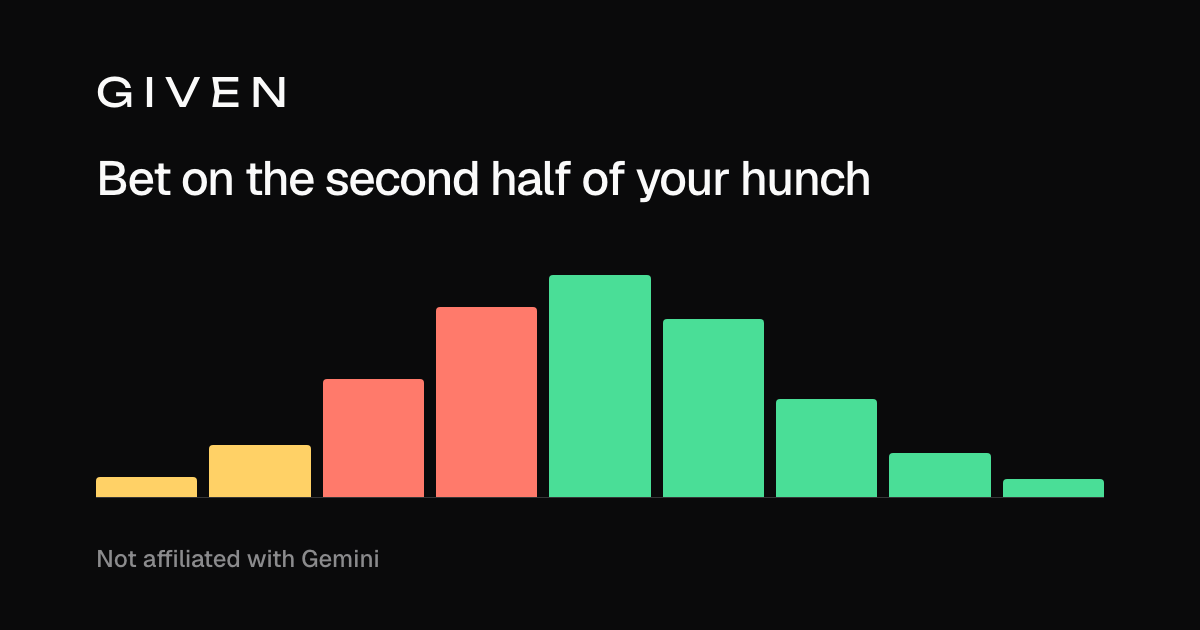
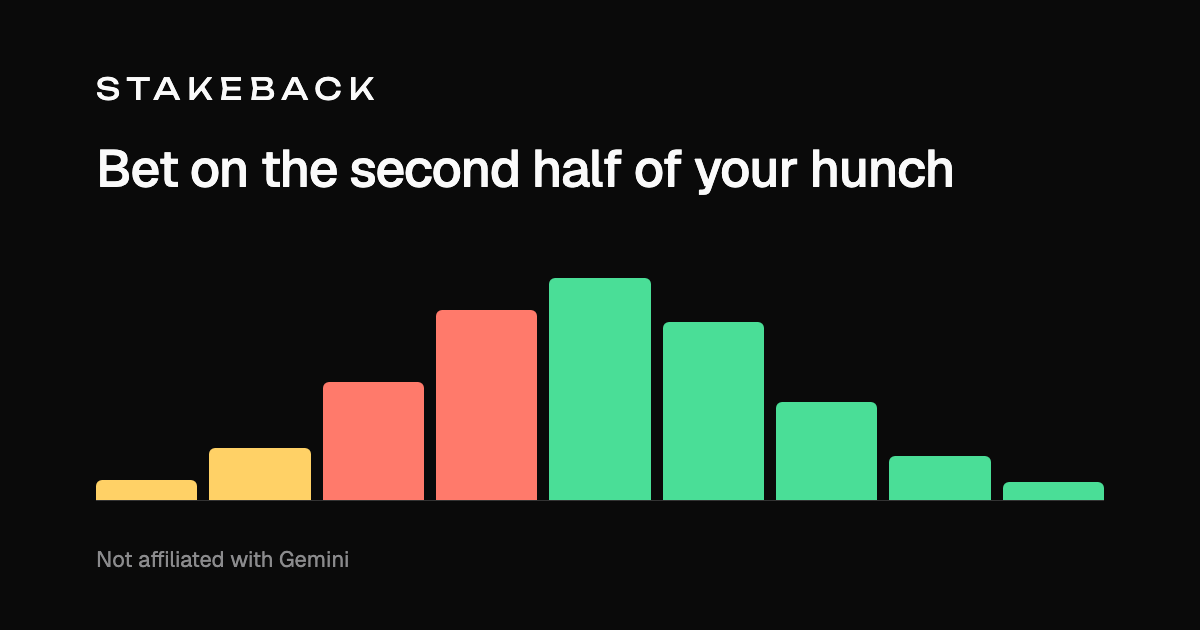
Rename the product to Stakeback
The wordmark, tab titles, descriptions, manifest, share image, share card, notices, README and submission text now say Stakeback.
The bet sentences ("Given $62,500 or above...") are ordinary English and stay. The repository, the GIVEN_* settings, the given_receipts
program and the package names are internal and unchanged; the README and decision 14 say so.

diff --git a/web/src/lib/titles.test.ts b/web/src/lib/titles.test.ts
@@ -3,23 +3,23 @@ import { titleFor } from './titles';
 
 describe('page titles', () => {
   it('names each page, then the site', () => {
-    expect(titleFor('/parlay')).toBe('Stake Back · Given');
-    expect(titleFor('/range')).toBe('Range and Breakout · Given');
-    expect(titleFor('/hunch')).toBe('Hunch · Given');
-    expect(titleFor('/bets/')).toBe('My bets · Given');
-    expect(titleFor('/verify/5fE6B5sFabc')).toBe('Proof of a call · Given');
+    expect(titleFor('/parlay')).toBe('Stake Back · Stakeback');
+    expect(titleFor('/range')).toBe('Range and Breakout · Stakeback');
+    expect(titleFor('/hunch')).toBe('Hunch · Stakeback');
+    expect(titleFor('/bets/')).toBe('My bets · Stakeback');
+    expect(titleFor('/verify/5fE6B5sFabc')).toBe('Proof of a call · Stakeback');
   });
 
   it('keeps the site line for the landing page, and says so for an address it does not know', () => {
-    expect(titleFor('/')).toBe("Given – money back if it doesn't happen");
-    expect(titleFor('')).toBe("Given – money back if it doesn't happen");
-    expect(titleFor('/nowhere')).toBe('Page not found · Given');
-    expect(titleFor('/parlayx')).toBe('Page not found · Given');
+    expect(titleFor('/')).toBe("Stakeback – money back if it doesn't happen");
+    expect(titleFor('')).toBe("Stakeback – money back if it doesn't happen");
+    expect(titleFor('/nowhere')).toBe('Page not found · Stakeback');
+    expect(titleFor('/parlayx')).toBe('Page not found · Stakeback');
   });
 
   it('the landing title is the one in index.html, so the tab does not change when the app starts', () => {
     // The page is served with this title and the app sets the same one on arrival: no flicker, and no second name for the site.
-    expect(titleFor('/')).toBe("Given – money back if it doesn't happen");
+    expect(titleFor('/')).toBe("Stakeback – money back if it doesn't happen");
   });
 
   it('every other page uses the same separator, a middle dot', () => {
@@ -29,22 +29,22 @@ describe('page titles', () => {
   });
 
   it('the Range page is named for both bets it holds, whichever side its switch is on', () => {
-    expect(titleFor('/range')).toBe('Range and Breakout · Given');
-    expect(titleFor('/Range/')).toBe('Range and Breakout · Given');
+    expect(titleFor('/range')).toBe('Range and Breakout · Stakeback');
+    expect(titleFor('/Range/')).toBe('Range and Breakout · Stakeback');
   });
 
   it('reads an old address as the page it is sent on to', () => {
-    expect(titleFor('/app')).toBe('Stake Back · Given');
-    expect(titleFor('/app/bets')).toBe('My bets · Given');
+    expect(titleFor('/app')).toBe('Stake Back · Stakeback');
+    expect(titleFor('/app/bets')).toBe('My bets · Stakeback');
   });
 
   it('follows the router, which ignores case and knows no page below these', () => {
-    expect(titleFor('/Markets')).toBe('Markets · Given');
-    expect(titleFor('/BETS/')).toBe('My bets · Given');
-    expect(titleFor('/VERIFY/AbC')).toBe('Proof of a call · Given');
-    expect(titleFor('/verify')).toBe('Page not found · Given');
-    expect(titleFor('/verify/')).toBe('Page not found · Given');
-    expect(titleFor('/verify/abc/extra')).toBe('Page not found · Given');
-    expect(titleFor('/parlay/extra')).toBe('Page not found · Given');
+    expect(titleFor('/Markets')).toBe('Markets · Stakeback');
+    expect(titleFor('/BETS/')).toBe('My bets · Stakeback');
+    expect(titleFor('/VERIFY/AbC')).toBe('Proof of a call · Stakeback');
+    expect(titleFor('/verify')).toBe('Page not found · Stakeback');
+    expect(titleFor('/verify/')).toBe('Page not found · Stakeback');
+    expect(titleFor('/verify/abc/extra')).toBe('Page not found · Stakeback');
+    expect(titleFor('/parlay/extra')).toBe('Page not found · Stakeback');
   });
 });

diff --git a/web/index.html b/web/index.html
@@ -4,20 +4,20 @@
     <meta charset="UTF-8" />
     <meta name="viewport" content="width=device-width, initial-scale=1.0" />
     <meta name="color-scheme" content="light dark" />
-    <title>Given – money back if it doesn't happen</title>
+    <title>Stakeback – money back if it doesn't happen</title>
     <meta name="description" content="Bet on the second half of your hunch. If the first half doesn't happen, you get your stake back." />
     <meta name="theme-color" content="#fafbfb" media="(prefers-color-scheme: light)" />
     <meta name="theme-color" content="#0a0a0b" media="(prefers-color-scheme: dark)" />
     <meta property="og:type" content="website" />
-    <meta property="og:site_name" content="Given" />
-    <meta property="og:title" content="Given – money back if it doesn't happen" />
+    <meta property="og:site_name" content="Stakeback" />
+    <meta property="og:title" content="Stakeback – money back if it doesn't happen" />
     <meta property="og:description" content="Bet on the second half of your hunch. If the first half doesn't happen, you get your stake back. Every result is shown before you bet. Not affiliated with Gemini." />
     <!-- A link preview needs a full address for its picture. The hosted server (scripts/serve.mjs) puts its public address in
          front of this path when it serves the page; opened any other way the path is left as it is. -->
     <meta property="og:image" content="/og.png" />
     <meta property="og:image:width" content="1200" />
     <meta property="og:image:height" content="630" />
-    <meta property="og:image:alt" content="Given: bars showing where a price may finish, colored by what the bet does there: stake back, lose or win" />
+    <meta property="og:image:alt" content="Stakeback: bars showing where a price may finish, colored by what the bet does there: stake back, lose or win" />
     <meta name="twitter:card" content="summary_large_image" />
     <link rel="icon" href="/favicon.svg" type="image/svg+xml" />
     <link rel="apple-touch-icon" href="/apple-touch-icon.png" />

diff --git a/web/src/lib/shareCard.ts b/web/src/lib/shareCard.ts
@@ -100,14 +100,14 @@ export function shareCardSvg(c: ShareCard): string {
   const linkLines = splitLink(c.link);
   // Only what the proof page checks: the call was sealed before it was revealed. The result is the exchange's, not Solana's.
   // A call that is not on Solana has no record to check, so the picture claims no seal and does not tell anyone to check.
-  const checkLine = c.onSolana ? 'Sealed on Solana before it was revealed. Check it yourself:' : 'Recorded by Given, not on Solana:';
+  const checkLine = c.onSolana ? 'Sealed on Solana before it was revealed. Check it yourself:' : 'Recorded by Stakeback, not on Solana:';
 
   return [
     `<svg xmlns="http://www.w3.org/2000/svg" width="${CARD_WIDTH}" height="${CARD_HEIGHT}" viewBox="0 0 ${CARD_WIDTH} ${CARD_HEIGHT}">`,
     `<rect width="${CARD_WIDTH}" height="${CARD_HEIGHT}" fill="${k.page}"/>`,
     `<rect x="40.5" y="40.5" width="1119" height="549" rx="12" fill="${k.card}" stroke="${k.line}"/>`,
     // The name, set as the header sets it: wide, spaced, capitals.
-    `<text x="88" y="106" font-family="${SANS}" font-size="22" font-weight="500" letter-spacing="5.3" fill="${k.ink}">GIVEN</text>`,
+    `<text x="88" y="106" font-family="${SANS}" font-size="22" font-weight="500" letter-spacing="5.3" fill="${k.ink}">STAKEBACK</text>`,
     `<text x="1112" y="106" text-anchor="end" font-family="${SANS}" font-size="20" fill="${k.muted}">${c.onSolana ? 'Recorded on Solana · ' : ''}${esc(c.when)}</text>`,
     // who and what happened
     `<text x="88" y="170" font-family="${SANS}" font-size="20" font-weight="500" letter-spacing="1.6" fill="${k.muted}">${esc(c.handle.toUpperCase())}</text>`,

diff --git a/web/src/lib/shareCard.test.ts b/web/src/lib/shareCard.test.ts
@@ -29,9 +29,9 @@ function wellFormed(svg: string): boolean {
 }
 
 describe('the picture of a call that is not on Solana', () => {
-  it('claims no seal and offers nothing to check: it says only that Given recorded it', () => {
+  it('claims no seal and offers nothing to check: it says only that Stakeback recorded it', () => {
     const svg = shareCardSvg(card({ onSolana: false }));
-    expect(svg).toContain('Recorded by Given, not on Solana:');
+    expect(svg).toContain('Recorded by Stakeback, not on Solana:');
     for (const claim of ['Sealed', 'Check it yourself', 'Recorded on Solana']) expect(svg).not.toContain(claim);
     expect(svg).toContain('given.example.com/verify/5P8xNpVvQmRt');
   });
@@ -61,7 +61,7 @@ describe('the picture of a call', () => {
     expect(svg).not.toMatch(/Georgia|serif'|monospace.*Result/);
     expect(svg).not.toMatch(/#f5f1e8|#fffdf7/i);
     expect(svg).toContain('letter-spacing="5.3"');
-    expect(svg).toContain('>GIVEN<');
+    expect(svg).toContain('>STAKEBACK<');
     expect(svg).not.toMatch(/devnet|Test chain|test/i);
   });
 
@@ -74,7 +74,7 @@ describe('the picture of a call', () => {
     expect(off).not.toContain('Recorded on Solana');
     expect(off).not.toContain('Committed');
     expect(off).not.toContain('Sealed');
-    expect(off).toContain('Recorded by Given, not on Solana');
+    expect(off).toContain('Recorded by Stakeback, not on Solana');
     expect(off).toContain('Nov 18, 2026');
     // The picture says what the proof page checks, and the proof page cannot check the result.
     expect(on).not.toMatch(/before the result/);

diff --git a/web/src/pages/Verify.tsx b/web/src/pages/Verify.tsx
@@ -135,7 +135,7 @@ export default function Verify() {
         <div>
           <h1 className="h-page">Proof of a call</h1>
           {/* A seal is claimed only where there is a record to check it against. */}
-          <p className="lede">{real ? 'Sealed before it was revealed, and checkable on Solana by anyone' : 'Recorded by Given, not on Solana'}</p>
+          <p className="lede">{real ? 'Sealed before it was revealed, and checkable on Solana by anyone' : 'Recorded by Stakeback, not on Solana'}</p>
         </div>
       </header>
 
@@ -251,7 +251,7 @@ export default function Verify() {
           <p className="fine">The fingerprint and the two times show that the call was sealed before it was revealed and not changed. They do not show the result: we report that, with the exchange’s order IDs as evidence.</p>
         </section>
       ) : (
-        <p className="fine pf-only">There is no Solana record to check. Given reports this result, with the exchange’s order IDs as evidence.</p>
+        <p className="fine pf-only">There is no Solana record to check. Stakeback reports this result, with the exchange’s order IDs as evidence.</p>
       )}
     </div>
   );

diff --git a/web/src/components/Shell.tsx b/web/src/components/Shell.tsx
@@ -167,8 +167,8 @@ export function Nav({ venue }: { venue: VenueNote }) {
     // At the top of a page the bar has no edge; once the page moves under it, it gets its rule and its blur.
     <header className="nav" data-home={home ? '' : undefined} data-top={top && !menu ? '' : undefined}>
       <div className="nav-in">
-        <Link to={keepMode('/')} className="brand" aria-label="Given home">
-          Given
+        <Link to={keepMode('/')} className="brand" aria-label="Stakeback home">
+          Stakeback
         </Link>
         {home ? (
           // On the home page the bar is the page's own contents: the idea first, then the ways to bet.
@@ -241,7 +241,7 @@ export function Footer() {
       <div className="wrap">
         <div className="foot-top">
           <div className="foot-brand">
-            <div className="brand">Given</div>
+            <div className="brand">Stakeback</div>
             <p>Bet on where a price finishes. See every result before you bet.</p>
           </div>
           <nav className="foot-cols" aria-label="Footer">

diff --git a/web/src/pages/NotFound.tsx b/web/src/pages/NotFound.tsx
@@ -23,7 +23,7 @@ export default function NotFound() {
         <div>
           <h1 className="h-page">We can’t find that page</h1>
           <p className="lede">
-            Given has nothing at <code>{shown}</code>. The link may be old or mistyped. Try one of these.
+            Stakeback has nothing at <code>{shown}</code>. The link may be old or mistyped. Try one of these.
           </p>
         </div>
       </header>
@@ -41,7 +41,7 @@ export default function NotFound() {
       </nav>
       <div className="row-actions">
         <Link to={keepMode('/')} className="btn btn-primary">
-          Back to Given
+          Back to Stakeback
         </Link>
         <Link to={keepMode(MY_BETS.to)} className="btn btn-ghost">
           {MY_BETS.name}

diff --git a/web/src/lib/titles.ts b/web/src/lib/titles.ts
@@ -1,9 +1,9 @@
 /**
  * What the browser tab, the history list and a shared link say for each page. One title for every page made the back button's
- * list and a row of open tabs unreadable ("Given", "Given", "Given"), and a screen reader announces the title on arrival.
+ * list and a row of open tabs unreadable ("Stakeback", "Stakeback", "Stakeback"), and a screen reader announces the title on arrival.
  */
-const SITE = 'Given';
-const HOME = "Given – money back if it doesn't happen";
+const SITE = 'Stakeback';
+const HOME = "Stakeback – money back if it doesn't happen";
 
 /** Every page the router knows by an exact address (it matches without regard to case, and has nothing below these). */
 const PAGES: Record<string, string> = {

diff --git a/web/src/pages/Proof.tsx b/web/src/pages/Proof.tsx
@@ -278,7 +278,7 @@ export default function Proof() {
           )}
           {rec && rec.untrackedOrders > 0 && (
             <p className="fine">
-              {rec.untrackedOrders === 1 ? 'One order on this account was' : `${rec.untrackedOrders} orders on this account were`} not sent by Given. The {cash(Math.abs(rec.untrackedCashFlow))}{' '}
+              {rec.untrackedOrders === 1 ? 'One order on this account was' : `${rec.untrackedOrders} orders on this account were`} not sent by Stakeback. The {cash(Math.abs(rec.untrackedCashFlow))}{' '}
               {rec.untrackedCashFlow < 0 ? 'spent on' : 'brought in by'} {rec.untrackedOrders === 1 ? 'it' : 'them'} is counted above.
             </p>
           )}

diff --git a/docs/SUBMISSION.md b/docs/SUBMISSION.md
@@ -20,7 +20,7 @@ the pitch. Items marked **FILL** need something that does not exist yet.*
 ## The five written answers (draft)
 
 **What did you build?**
-Given is a consumer app for defined-outcome bets on Gemini prediction markets: every result is on screen before you bet.
+Stakeback is a consumer app for defined-outcome bets on Gemini prediction markets: every result is on screen before you bet.
 A **Stake Back**: you pick a condition and a target on a live price ladder; if the target is reached you win, if the
 condition fails you get your stake back, if it holds but the target is missed you lose the stake (and it works going down
 as well as up). A **Range**: win if a price finishes between two levels. A **Breakout**, its opposite: win if it finishes
@@ -32,7 +32,7 @@ leaderboard ranks skill against the market's own odds.
 
 **What problem does it solve?**
 Prediction markets punish you for the half of a hunch you are unsure of. A parlay loses everything when its first leg
-fails. Sportsbooks sell "draw no bet" to fix that, but we found no one-tap version on a regulated exchange. Given builds it
+fails. Sportsbooks sell "draw no bet" to fix that, but we found no one-tap version on a regulated exchange. Stakeback builds it
 from contracts that already exist, shows exactly what it costs, and keeps all money and positions on Gemini.
 
 **How does it work?**
@@ -60,7 +60,7 @@ gas, no seed phrase.
 **What would you build next?**
 Maker-first pricing, which roughly halves the cost and adds resting liquidity to Gemini's book; Gemini OAuth sign-in once
 production review allows it; sports ladders; payoffs with more than two orders on one ladder (a bet that pays more the
-further the price goes); and conditional contracts listed by Gemini directly, for which Given is the demand evidence.
+further the price goes); and conditional contracts listed by Gemini directly, for which Stakeback is the demand evidence.
 
 ## 2–3 minute video (shot list)
 
@@ -127,9 +127,9 @@ recorded fallback.
   The Memo is the readable record; our program, in the same transaction, recomputes the hash and refuses a reveal that
   does not match its commit or repeats one, and keeps each handle's score. It does not prove the result: our key attests
   that, with Gemini's order IDs as evidence.
-- **How is this different from a parlay?** A parlay loses everything when its first leg fails. Given returns the stake.
+- **How is this different from a parlay?** A parlay loses everything when its first leg fails. Stakeback returns the stake.
 - **Are these structured products?** No, and do not call them that. A structured product is something an issuer packages
-  and stands behind. Given issues, pools and holds nothing: each bet is two plain orders in the user's own Gemini account.
+  and stands behind. Stakeback issues, pools and holds nothing: each bet is two plain orders in the user's own Gemini account.
   What it adds is the shape, shown in full before the orders are sent. The idea underneath is that a ladder has a contract
   at every level, like an options chain, so a payoff that changes only at those levels can be built exactly.
 - **Is it a way to bet on volatility?** In plain terms, yes: Range is a bet that a price stays put and Breakout is a bet
@@ -140,7 +140,7 @@ recorded fallback.
   against the market's, and the bets that pay for the difference.
 - **Could Gemini do this natively?** Its combo documentation describes a 2 to 6 leg AND contract, of which a range would be
   one (YES on the lower level AND NO on the higher) and a breakout its NO side. Combo creation was rejected in the sandbox
-  when we tried (decision 6), so Given builds them from two orders. That is the demand evidence, not a workaround.
+  when we tried (decision 6), so Stakeback builds them from two orders. That is the demand evidence, not a workaround.
 - **What happens in production?** Real fees, Gemini's OAuth review, and the value rule applies to real books (median spread
   about 4¢). None of that has been run.
 

diff --git a/README.md b/README.md
@@ -1,14 +1,16 @@
-# Given
+# Stakeback
 
 **Bet on the second half of your hunch. If the first half doesn't happen, you get your money back.**
 
-Given builds bets on [Gemini](https://www.gemini.com) prediction markets from ordinary orders in the user's own Gemini
+> **Naming.** The product is called Stakeback (renamed from Given on 2026-11-20). The repository, the `GIVEN_*` settings, the deployed `given_receipts` Solana program, the `given-*` package names and the sealed-call format still say Given; they are internal and unchanged.
+
+Stakeback builds bets on [Gemini](https://www.gemini.com) prediction markets from ordinary orders in the user's own Gemini
 account, then records each call on Solana so it can be proven later without trusting us. Every outcome is known before
 you bet. The products: a **Stake Back** (a bet on a second price level that pays your stake back if the first level fails, going up or going
 down; called Return Parlay until 2026-11-19, and still `parlay` in the code and the API), a **Range** (win if a price finishes between two levels), its opposite the **Breakout** (win if it finishes outside
 them, whichever way) and a **Basket** (several of these bets, on different assets, placed together).
 
-> Given uses Gemini's prediction market API and is **not affiliated with Gemini**. Everything runs on Gemini's sandbox
+> Stakeback uses Gemini's prediction market API and is **not affiliated with Gemini**. Everything runs on Gemini's sandbox
 > with practice money. Prediction markets involve risk and can lose the amount you stake.
 
 *Built for the UBC 2026 hackathon. Tracks: Consumer Apps. Awards: Best use of Solana. Bounties: Gemini Prediction Markets,
@@ -121,7 +123,7 @@ program, and nobody can relabel a call after seeing how it went.
 - Gemini's published taker fee is `0.07 × contracts × price × (1 − price)`, rounded up to the cent. The sandbox charges
   none, so every quote is also shown **at production fee rates**. We have not run anything on production.
 - We never say "risk-free" or "guaranteed". The cost over fair price is shown on every quote.
-- Money and positions stay in the user's Gemini account. Nothing is held by Given, nothing is tokenised, and users are
+- Money and positions stay in the user's Gemini account. Nothing is held by Stakeback, nothing is tokenised, and users are
   never matched against each other.
 
 ## Architecture
@@ -197,7 +199,7 @@ server's board showed after the 2026-11-18 run.
 ## QuickNode Streams
 
 - **Network:** Solana devnet. **Dataset:** Programs + Logs.
-- **Filter:** `chain/quicknode/filter.js` keeps only successful transactions that logged a Given memo and delivers
+- **Filter:** `chain/quicknode/filter.js` keeps only successful transactions that logged a Stakeback memo and delivers
   `{ sig, slot }`.
 - **Destination:** webhook to `POST /hooks/quicknode` on the chain service, authenticated by a shared-token header (or
   QuickNode's HMAC headers).

diff --git a/docs/GIVEN.md b/docs/GIVEN.md
@@ -1,4 +1,4 @@
-# Given — concept, decisions and open questions
+# Stakeback (formerly Given) — concept, decisions and open questions
 
 *Last updated 2026-11-17. This is the current best version and the evidence
 behind it. It is meant to be changed: see "How to change this document" at the
@@ -123,7 +123,7 @@ our current pick, cheap to change. **Open** = not settled.
 | 11 | Sign-in is OAuth; our own sandbox keys for the demo | Open | OAuth is Gemini's sanctioned route. 11-17: Gemini's docs say a bearer token can authenticate the WebSocket and `orders:create` covers prediction-market orders, but no page says outright that it can `order.place`; sandbox apps register immediately, production needs review | The OAuth test on Wednesday morning |
 | 12 | Refusal threshold is 8¢ / 20% | Provisional | See "The cost problem" | Data from more snapshots; maker-first pricing changing the economics |
 | 13 | Maker-first pricing is the first stretch goal | Provisional | Improves both the price and the value-to-Gemini case | Fill and legging risk proving worse than expected in the sandbox |
-| 14 | Name: "Given" | Provisional | Short, says the mechanic | A better name |
+| 14 | Name: **Stakeback** (was "Given" until 2026-11-20) | Decided | Names the feature people remember: the stake comes back. The repository, the `GIVEN_*` settings, the `given_receipts` program and the package names keep "Given", because renaming live identifiers a day before submission risked more than it bought | A clash found with an existing product |
 | 15 | Solana record is **commit at bet time (hash), reveal after settlement (opt-in)**; the app is fee payer and authority, users never hold a wallet | Provisional | Keeps trades off a public chain by default (guardrail), gives the program real state to check, and keeps crypto invisible for the Consumer track | A rule that requires user-held keys; the program not working by the Wednesday gate (fall back to Memo records) |
 | 16 | The demo is **hosted** (web + executor on an always-on host), sandbox-only, with a stake cap and per-visitor sessions | Decided | Devpost requires a working demo or deployed app; the QuickNode webhook needs an always-on host anyway | Gemini says no public sandbox demo |
 | 17 | Both teammates attend the Nov 21 finals in person | Decided (needs D4 confirmation) | Rules: presence in person is required to qualify for any prize, bounties included | The organizers confirm a remote option in writing |
